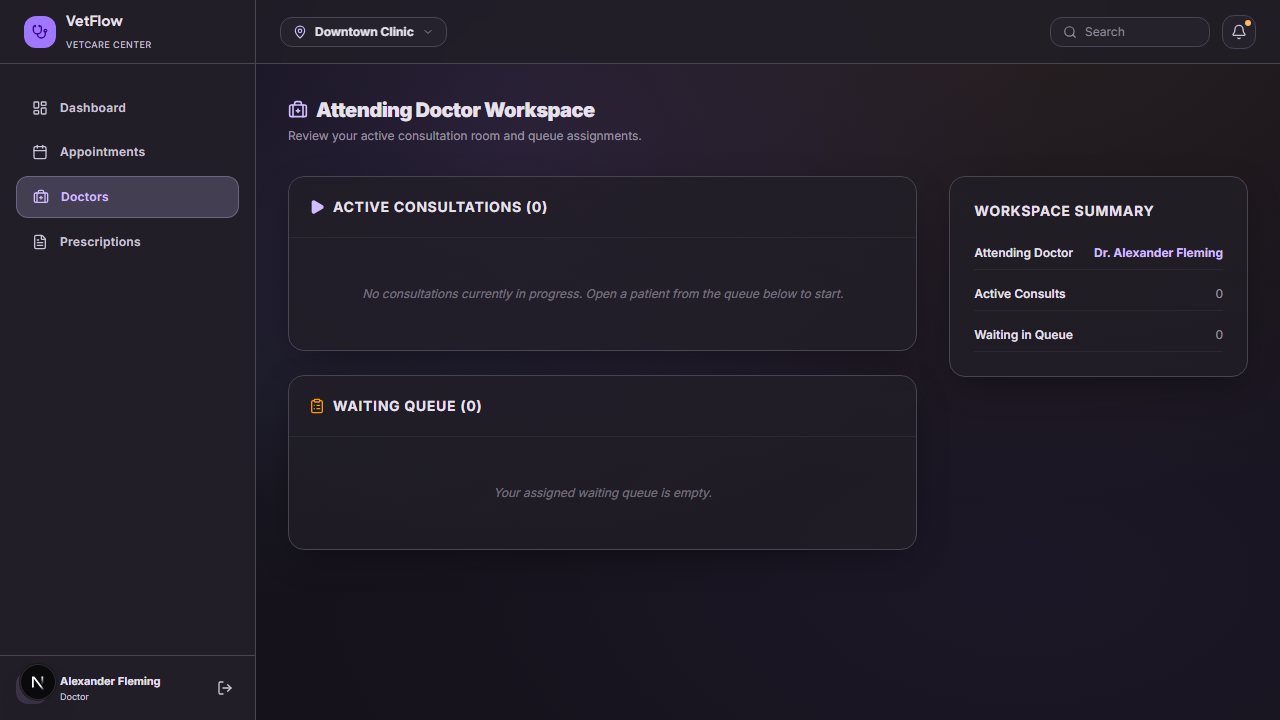
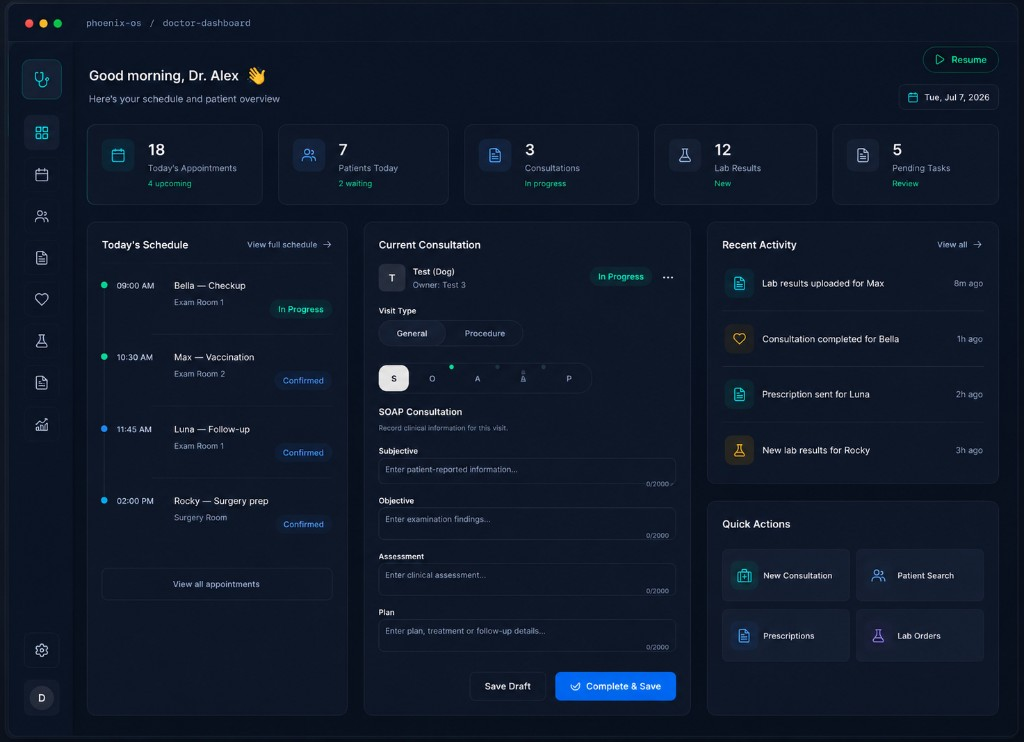
fixed homepage

diff --git a/components/home/DashboardPreviewStack.tsx b/components/home/DashboardPreviewStack.tsx
@@ -127,7 +127,7 @@ export default function DashboardPreviewStack({
                     <img
                       src={item.image}
                       alt={item.label}
-                      className="w-full h-full object-cover object-top"
+                      className="w-full h-full object-contain object-top bg-[#0B1020]"
                       draggable={false}
                     />
                   )}
